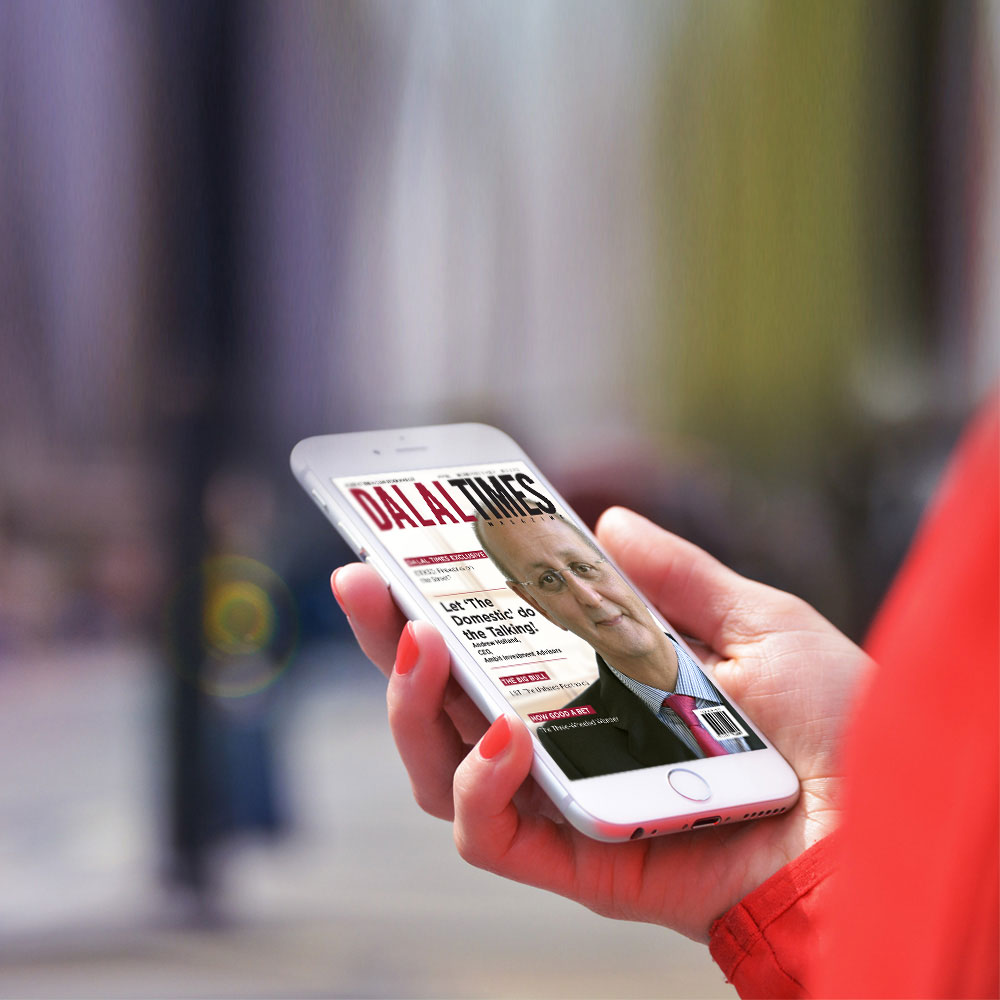
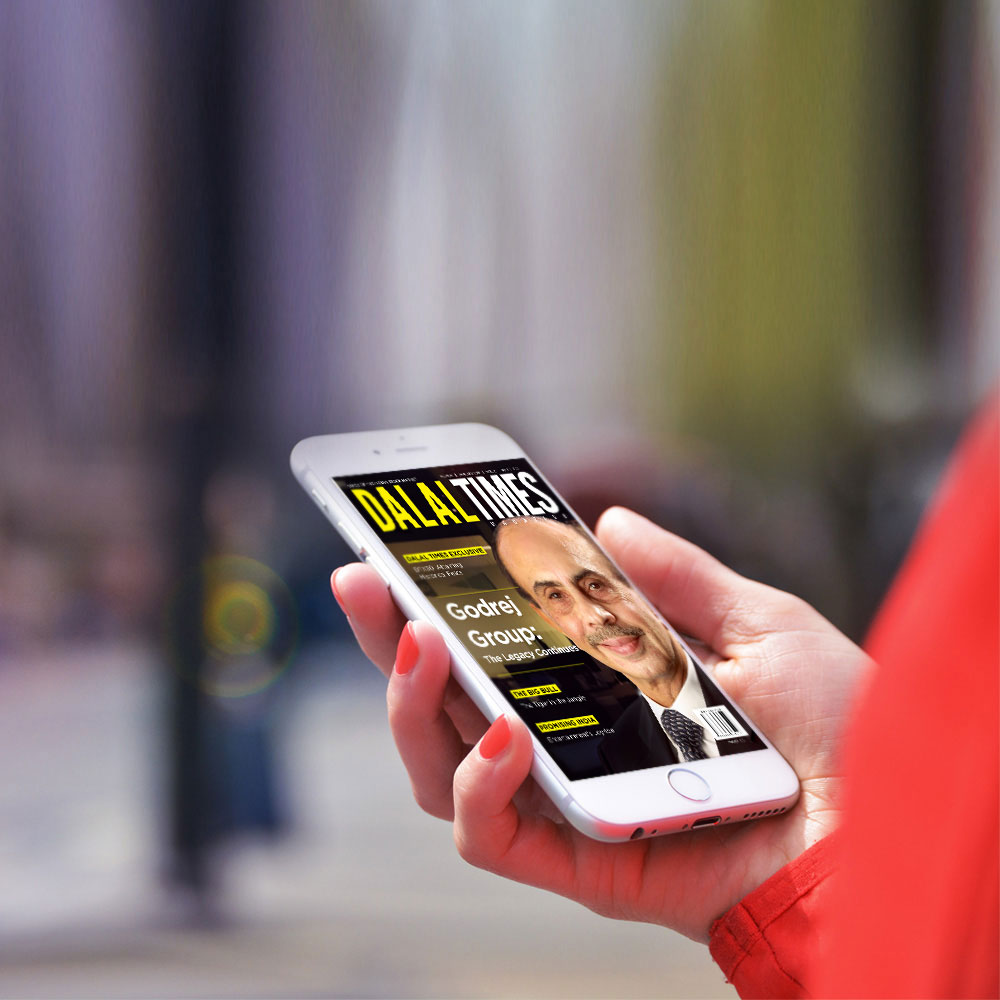
Magazine New issue

Changed region(s): [[0.341, 0.434, 0.775, 0.806]]

diff --git a/magazine/view/home.tpl.php b/magazine/view/home.tpl.php
@@ -188,7 +188,7 @@ foreach ($this->_data['whydt']['featurelist-right'] as $key => $value) {
               <h2>Sneak Peek</h2>
             </div>
             <div style="text-align: justify;">
-                <p>The December issue of Dalal Times Magazine highlights India’s economic growth in both domestic and global terms in an interview with Andrew Holland, CEO, Ambit Investment Advisors. The second issue (Vol. II) of the magazine also brings to you reader-favourite segments like How Good A Bet, Gems In The Offing, Pink Stock et al for investors to make better and informed portfolio decisions. Subscribe and read stock recommendations and suggestions that hold ground even in the present turbulent phase of the market.</p>
+                <p>The January issue of Dalal Times Magazine came out with a changed theme. From January 2016 onwards, we will be looking at companies, groups or companies within a business group that have the potential to create wealth for its investors in the future and also have some good track record attached to them. This time read our Cover Story on the Godrej Group and what the Chairperson of the group Adi Godrej have to say. The third issue (Vol. II) of the magazine also brings to you reader-favourite segments like How Good A Bet, Gems In The Offing, Pink Stock et al for investors to make better and informed portfolio decisions. Subscribe and read stock recommendations and suggestions that hold ground even in the present turbulent phase of the market.</p>
               </div>
           </div>
         </div>
@@ -412,6 +412,8 @@ if ($_SESSION['_loggedIn'] == 1) {
           </div>
           <?php }
 	?>
+	<?
+	if($this->_data['specialIssue']==true){?>
           <div class="row">
             <h2 style="margin-bottom: 10px;font-size: 20px;">Special Issues</h2>
             <div id="liquid2" class="liquid">
@@ -425,6 +427,7 @@ if ($_SESSION['_loggedIn'] == 1) {
               <span class="next"></span>
             </div>
           </div>
+         <?php } ?>
         <?php if ($partial_issue_list != '') {?>
             <div class="row">
               <h2 style="margin-bottom: 10px;font-size: 20px;">Partial Copy</h2>

diff --git a/magazine/controller/magazine.php b/magazine/controller/magazine.php
@@ -141,6 +141,7 @@ class magazine extends magazineModel {
                   </div>';
 			$this->_data['completeIssues'] = $this->_magazineModel->checkAccessValidity();
 			$this->_data['partialIssues'] = $this->_magazineModel->getPartialIssueList();
+      $this->_data['specialIssue'] = $this->_magazineModel->checkSamvatSpecialIssueValidity('november2015');
 		} else {
 			$this->_data['show_login'] = 1;
 			$this->_data['header_text'] = '<div style="display:inline-block;vertical-align: bottom; padding-right:10px;">';
@@ -258,7 +259,7 @@ class magazine extends magazineModel {
 			                        <input type="submit" class="btn btn-block" id="signup" value="Sign Up">
 			                      </div>
                             <div class="form-group form-fields-width text-center">
-                              <em><strong>Your Samvat copy will be delivered to you soon! Stay Tuned.</strong></em>
+                              
                             </div>
 			                    </div>
 			                  </form>
@@ -291,6 +292,7 @@ class magazine extends magazineModel {
                     </div>
                   </div>';
 			$this->_data['completeIssues'] = 0;
+      $this->_data['specialIssue'] = false;
 		}
 
 		$this->_data['aboutdt'] = $this->_magazineModel->getAboutSection();
